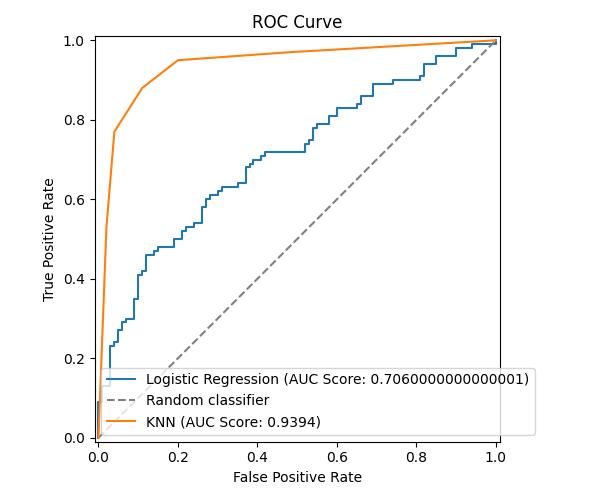
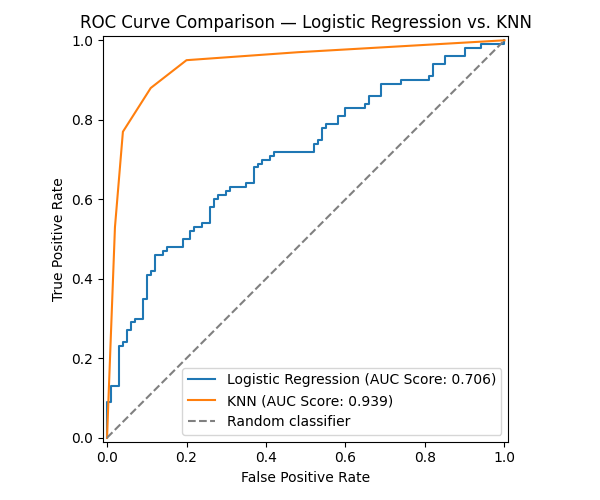
extended comments and debugged

diff --git a/assignment_04/warmup_04.py b/assignment_04/warmup_04.py
@@ -74,10 +74,10 @@ fpr_lr, tpr_lr, thresholds_lr = roc_curve(y_test, log_probs)
 fpr_knn, tpr_knn, thresholds_knn = roc_curve(y_test, knn_probs)
 
 fig, ax = plt.subplots(figsize=(6, 5))
-RocCurveDisplay(fpr=fpr_lr, tpr=tpr_lr).plot(ax=ax, name = f'Logistic Regression (AUC Score: {lr_auc})')
+RocCurveDisplay(fpr=fpr_lr, tpr=tpr_lr).plot(ax=ax, name = f'Logistic Regression (AUC Score: {lr_auc:.3f})')
+RocCurveDisplay(fpr=fpr_knn, tpr=tpr_knn).plot(ax=ax, name=f'KNN (AUC Score: {knn_auc:.3f})')
 ax.plot([0, 1], [0, 1], linestyle="--", color="gray", label="Random classifier")
-ax.set_title("ROC Curve")
-RocCurveDisplay(fpr=fpr_knn, tpr=tpr_knn).plot(ax=ax, name=f'KNN (AUC Score: {knn_auc})')
+ax.set_title("ROC Curve Comparison — Logistic Regression vs. KNN")
 ax.legend()
 plt.tight_layout()
 plt.savefig('outputs/roc_comparison.png')
@@ -199,14 +199,22 @@ print(f"Best Max Depth: {grid_search2.best_params_['dtree__max_depth']}")
 print(f"Best AUC: {grid_search2.best_score_:.3f}")
 print(f"Test AUC (Tree): {dt_test_auc:.4f}")
 
-# The AUC for the Decision Tree is much 
-# higher than for Logistic Regression.
-# While AUC is important part of this 
-# difference may be attributed to using 
-# C versus max depth, given that C 
-# focuses on avoiding miscaluculations 
-# and max depth is about setting 
-# restrictions on data.
+# Comparing best AUCs: Logistic Regression's CV AUC was .7060 vs. the Decision
+# Tree's .935. The difference isn't really about C vs. max_depth as tuning knobs -- it's
+# about model capacity. Logistic Regression can only draw a linear (in the scaled
+# feature space) decision boundary, while a Decision Tree can carve out non-linear,
+# feature-interaction-based rules (e.g. "cold AND windy" as a single split path),
+# which fits this kind of threshold-based labeling rule more naturally.
+#
+# I would bring Decision Tree into further development, but AUC is not the only
+# thing I'd consider. A Decision Tree with max_depth=None can memorize the training
+# data and look artificially strong on this particular CV split while generalizing
+# worse on new data -- I'd want to check the train/test AUC gap, not just the best CV
+# score, before trusting it. Logistic Regression, meanwhile, is far easier to explain
+# to a non-technical stakeholder (a single coefficient per feature) and faster to
+# retrain, which matters if this model needs to run daily in production. So the
+# choice depends on whether raw predictive power or interpretability/stability
+# matters more for the deployment use case -- not just which AUC number is bigger.
 
 ## --- GridSearch Question 3 --- ##
 log_results = pd.DataFrame(grid_search1.cv_results_)
@@ -260,7 +268,12 @@ for i, sample in enumerate(new_samples, start=1):
     
     print(f"Row {i}: Predicted Class = {pred_class}, Probability (Class 1) = {pred_prob:.4f}")
 
-# I expected the all 0s row to predict 0, which is did. 
-# I was surprised by predict proba giving it decimal
-# estimates as opposed to a 1 and 0, especially given 
-# that the predict proba for other rows is integers.
+# All-zeros row: in a StandardScaler-based pipeline, 0 represents the *average*
+# value for each feature. So this row is a perfectly average case.
+# With every feature's contribution (coefficient x 0) dropping out, the predicted
+# probability here is essentially just the sigmoid of the model's intercept term --
+# it reflects the model's baseline tendency toward one class, which is shaped by
+# how balanced the training classes were, not by any specific feature evidence.
+# All predict_proba outputs are floats/probabilities, including the other two rows --
+# any that printed as 1.0000 or 0.0000 were just very confident, rounded predictions,
+# not a different return type.

diff --git a/assignment_04/predict_weather.py b/assignment_04/predict_weather.py
@@ -4,8 +4,8 @@ import pandas as pd
 import sys
 
 ## --- Task 1: Load and Verify --- ##
-clf = joblib.load('models/weather_classifier.pkl')
 try:
+    clf = joblib.load('models/weather_classifier.pkl')
     with open('models/weather_classifier_metadata.json', 'r') as file:
         data = json.load(file)
 except FileNotFoundError as e:
@@ -19,10 +19,10 @@ print(f"Test AUC: {data['test_auc']}")
 
 ## --- Task 2: Predict on New Data --- ##
 new_days = pd.DataFrame({
-    "temperature_2m_max": [10, 50, 0, 15, 7], 
-    "temperature_2m_min": [10, 20, -5, 4, 0],
-    "precipitation_sum":  [1, 5, -8, 3, 1],
-    "wind_speed_10m_max": [2, 40, 25, 29, 29]
+    "temperature_2m_max": [20, 38, -2, 26, 15],
+    "temperature_2m_min": [12, 25, -10, 5, 3],
+    "precipitation_sum":  [0.0, 0.0, 12.0, 2.5, 3.0],
+    "wind_speed_10m_max": [10, 45, 20, 28, 29]
 })
 
 predict = clf.predict(new_days)
@@ -31,13 +31,14 @@ probs = clf.predict_proba(new_days)[:,1]
 for i, row in new_days.iterrows():
     pred_label = "good" if predict[i] == 1 else "skip"
     prob = probs[i]
-    print(f'Probability: {prob}')
     features_str = (
         f"Max Temp: {row['temperature_2m_max']}°C, "
         f"Min Temp: {row['temperature_2m_min']}°C, "
         f"Precip: {row['precipitation_sum']}mm, "
         f"Wind: {row['wind_speed_10m_max']}km/h"
     )
+    print(f"Day {i+1}: {features_str}")
+    print(f"Predicted: {pred_label} (confidence: {prob:.2%})")
 
 ## --- Task 3: Reflect --- ##
 

diff --git a/assignment_04/train_weather_classifier.py b/assignment_04/train_weather_classifier.py
@@ -80,8 +80,9 @@ pipe = Pipeline([
 ])
 
 param_grid = {
-    'clf__C' : [.1, .5, 0, 1, 5, 10]
+    'clf__C' : [.01, .1, .5, 1, 5, 10]
 }
+
 grid_search = GridSearchCV(
     estimator=pipe,
     param_grid=param_grid,
@@ -151,6 +152,12 @@ metadata = {
         "wind_speed_10m_max": "< 30 km/h",
         # Comment: Used the same label thresholds as above for consistency.
     },
+    "label_description": (
+        "A day is labeled 'good for running' when the high temperature is between "
+        "7-26°C (45-79°F), the low temperature stays at or above freezing (0°C), "
+        "total precipitation is under 3.0 mm, and max wind speed is under 30 km/h. "
+        "All four conditions must hold."
+    ),
 }
 
 with open('models/weather_classifier_metadata.json', 'w') as f:
